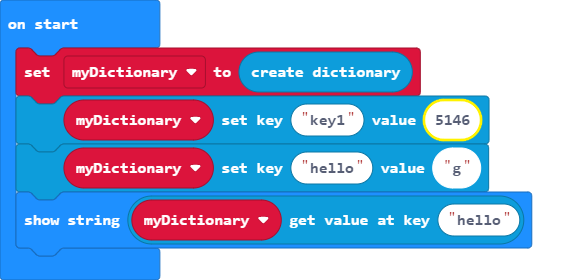
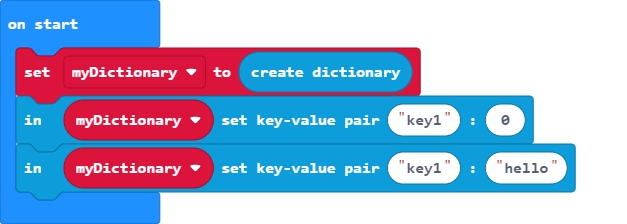
Update pxt.json, main.blocks, main.ts, pairing.ts

diff --git a/pairing.ts b/pairing.ts
@@ -1,29 +1,61 @@
 
-//% color=#0D9DDB weight=99 icon="\uf00b"
+//% color=#0D9DDB weight=99 icon="\uf02d"
 namespace dictionaries { 
-    
-    //% block = "new JS Object"
+ 
+    /**
+     * Creates a new dictionary-like object.
+    */
+    //% block = "new Dictionary"
     //% blockSetVariable=myDictionary
-    export function createDictionary(): {} {
-        let newDictionary: { [key: string]: any } = {};
+    export function createDictionary(): Dictionary {
+        let newDictionary = new Dictionary;
         return newDictionary;
     }
 
-    /**
-     * Set a key value pair for a dictionary
-     * @param dictionary is a dictionary
-     * @param key is a string, eg: "key1"
-     * @param value is the value at the key, eg: 6
-     */
-    //% block="%dictionary set key %key value %value"
-    export function setKeyValue(dictionary: any,  key: string, val: any ): void{
-        dictionary[key] = val;
-    }
 
-    //% block="%dictionary get value at key %key"
-    export function getValue(dictionary: any,  key: string ): any{
-        return dictionary[key];
-    }
+    let _dictionaries: Dictionary[];
+
+    export class Dictionary {
+
+        public structure: { [key: string]: any } = {};
+
+        constructor(){
+            init()
+            _dictionaries.push(this)
+        }
+
+        /**
+         * Set a key value pair for a dictionary
+         * @param dictionary is a dictionary
+         * @param key is a string, eg: "key1"
+         * @param value is the value at the key, eg: "hello"
+         */
+        //% block="in %myDictionary set key-value pair %key : %value"
+        setKeyValueString(key: string, val: string ): void{
+            this.structure[key] = val;
+        }
+
+        /**
+         * Set a key value pair for a dictionary
+         * @param dictionary is a dictionary
+         * @param key is a string, eg: "key1"
+         * @param value is the value at the key, eg: 6
+         */
+        //% block="in %myDictionary set key-value pair %key : %value"
+        setKeyValueNumber(key: string, val: number ): void{
+            this.structure[key] = val;
+        }
+
+        //% block="from %myDictionary get value at key %key"
+        getValue(key: string ): any{
+            return this.structure[key];
+        }
+    
+    }  
+
+    function init(): void {
+        _dictionaries = (<Dictionary[]>[]);
+    } 
 
 }
 

diff --git a/main.ts b/main.ts
@@ -1,4 +1,3 @@
 let myDictionary = dictionaries.createDictionary()
-dictionaries.setKeyValue(myDictionary, "key1", 5146)
-dictionaries.setKeyValue(myDictionary, "hello", "g")
-basic.showString("" + (dictionaries.getValue(myDictionary, "hello")))
+myDictionary.setKeyValueNumber("key1", 0)
+myDictionary.setKeyValueString("key1", "hello")
